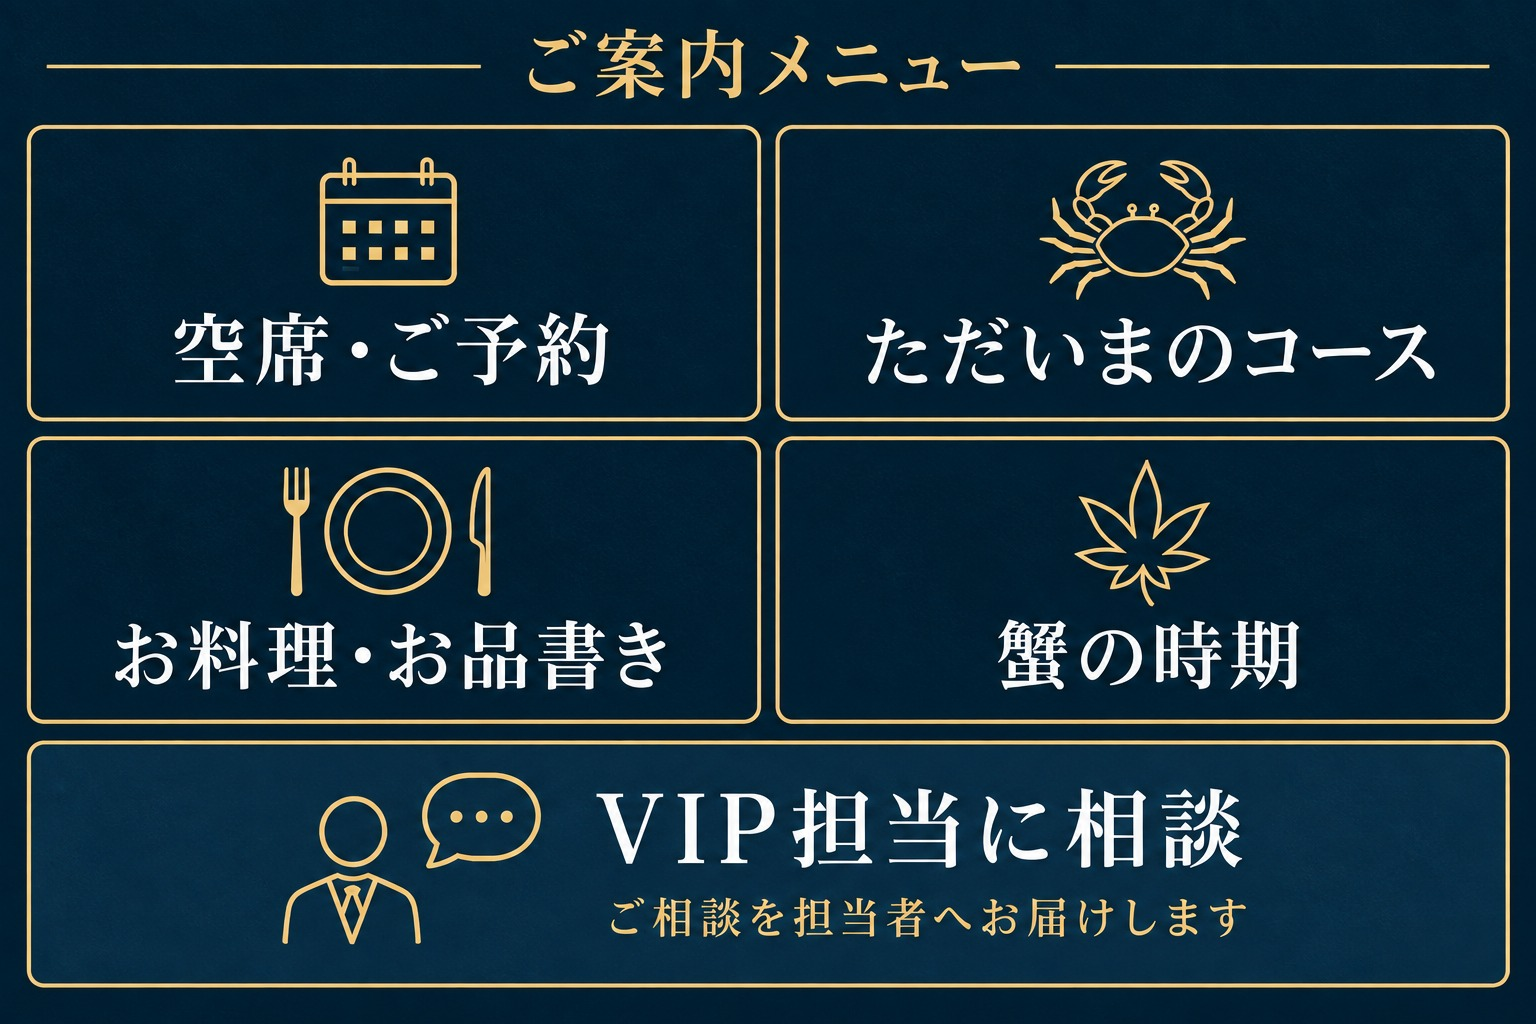
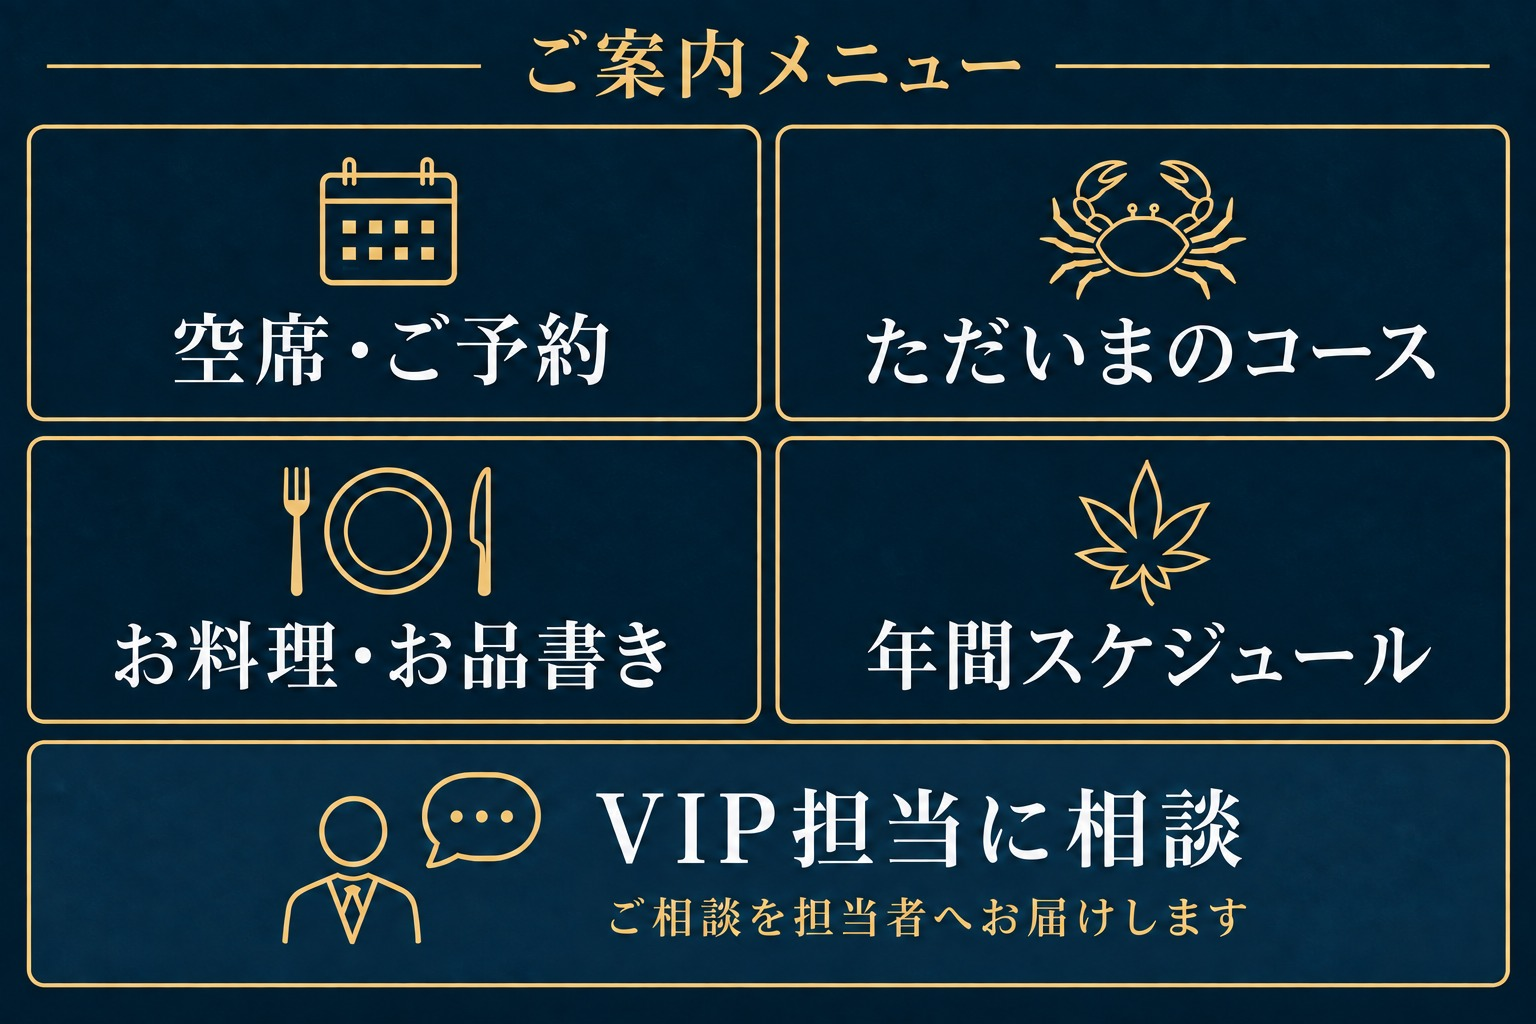
Rename concierge seasonal menu to annual schedule

diff --git a/concierge.py b/concierge.py
@@ -19,7 +19,7 @@ from urllib.parse import urlencode, urlparse
 LOCK = threading.RLock()
 DELIVERY_LOCK = threading.Lock()
 JST = timezone(timedelta(hours=9))
-MENU = ['空席案内', 'ただいまのコース', 'コース内容', '蟹の時期', 'VIP担当に相談', '配信停止', '配信再開']
+MENU = ['空席案内', 'ただいまのコース', 'コース内容', '年間スケジュール', 'VIP担当に相談', '配信停止', '配信再開']
 
 
 def connect(db):
@@ -196,7 +196,8 @@ def pair_owner(db, events):
 def respond(c, user, command, lookup, courses, base_url):
     cat = catalog(c)
     command = {'空席': '空席案内', '空席確認': '空席案内', 'コース・料金': 'ただいまのコース',
-               '朝倉へ相談': 'VIP担当に相談', '写真': 'コース内容', '動画': 'コース内容', 'お品書き': 'コース内容'}.get(command, command)
+               '朝倉へ相談': 'VIP担当に相談', '写真': 'コース内容', '動画': 'コース内容', 'お品書き': 'コース内容',
+               '蟹の時期': '年間スケジュール', '空席・ご予約': '空席案内', 'お料理・お品書き': 'コース内容'}.get(command, command)
     if command in MENU or command.startswith(('calendar:', 'visit:')):
         c.execute("UPDATE concierge_customers SET state='{}' WHERE user_id=?", (user,))
     if command == '空席案内' or command.startswith('calendar:'):
@@ -214,7 +215,7 @@ def respond(c, user, command, lookup, courses, base_url):
         return [message]
     if command == 'ただいまのコース':
         return [text_message(concierge_menu.current_courses(courses))]
-    if command == '蟹の時期':
+    if command == '年間スケジュール':
         return [text_message(concierge_menu.annual_courses(courses))]
     if command == 'コース内容':
         details = ['【コース内容】']

diff --git a/scripts/install_concierge_rich_menu.py b/scripts/install_concierge_rich_menu.py
@@ -16,7 +16,7 @@ def definition():
         (0, 124, 768, 306, '空席・ご予約', '空席案内'),
         (768, 124, 768, 306, 'ただいまのコース', 'ただいまのコース'),
         (0, 430, 768, 303, 'お料理・お品書き', 'コース内容'),
-        (768, 430, 768, 303, '蟹の時期', '蟹の時期'),
+        (768, 430, 768, 303, '年間スケジュール', '年間スケジュール'),
         (0, 733, 1536, 291, 'VIP担当に相談', 'VIP担当に相談'),
     ]
     return {
@@ -50,6 +50,8 @@ def main():
         req = urllib.request.Request(host + '/v2/bot/' + path, data=body, headers=headers, method=method)
         with urllib.request.urlopen(req, timeout=30) as response:
             raw = response.read()
+            if image and method == 'GET':
+                return raw
             return json.loads(raw) if raw else {}
 
     bot = api('info')
@@ -73,8 +75,14 @@ def main():
     menus = api('richmenu/list')['richmenus']
     match = next((m for m in menus if m['name'] == spec['name'] and m['areas'] == spec['areas']), None)
     rich_id = match['richMenuId'] if match else api('richmenu', 'POST', spec)['richMenuId']
-    # Re-uploading the same asset makes retries safe after a partially finished run.
-    api('richmenu/' + rich_id + '/content', 'POST', IMAGE.read_bytes(), image=True)
+    try:
+        installed_image = api('richmenu/' + rich_id + '/content', image=True)
+    except urllib.error.HTTPError as exc:
+        if exc.code != 404:
+            raise
+        installed_image = None
+    if installed_image is None:
+        api('richmenu/' + rich_id + '/content', 'POST', IMAGE.read_bytes(), image=True)
     api('user/all/richmenu/' + rich_id, 'POST')
     assert api('user/all/richmenu')['richMenuId'] == rich_id
     current = api('richmenu/' + rich_id)

diff --git a/concierge_menu.py b/concierge_menu.py
@@ -32,7 +32,7 @@ def current_courses(courses):
 
 
 def annual_courses(courses):
-    lines = ['【蟹の時期】', '年間のコーススケジュール']
+    lines = ['【年間スケジュール】', '年間のコーススケジュール']
     for key in ('matsuba-fukahire',):
         if key in courses:
             lines.append('1月1日〜3月20日\n' + courses[key][0])
